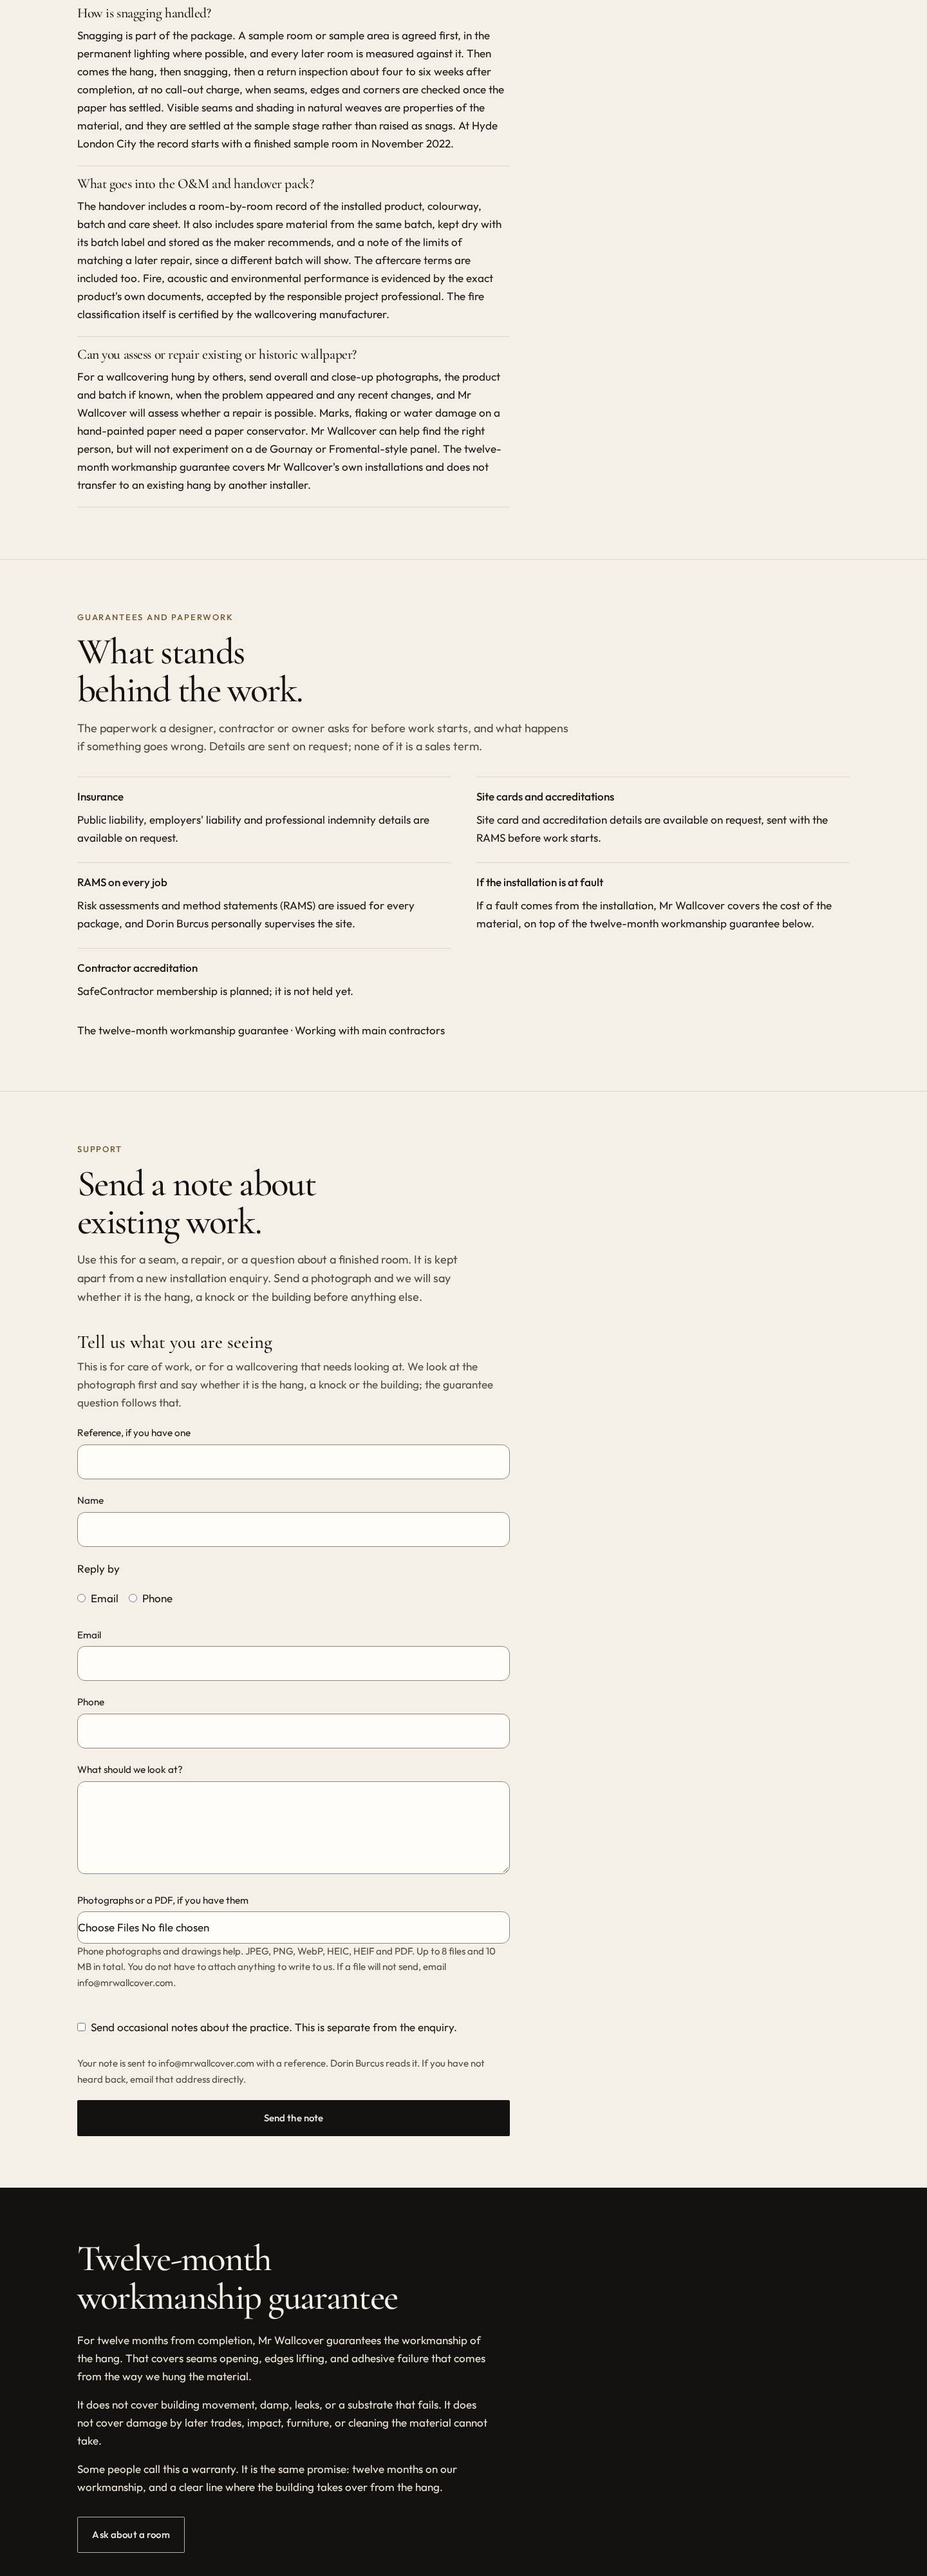
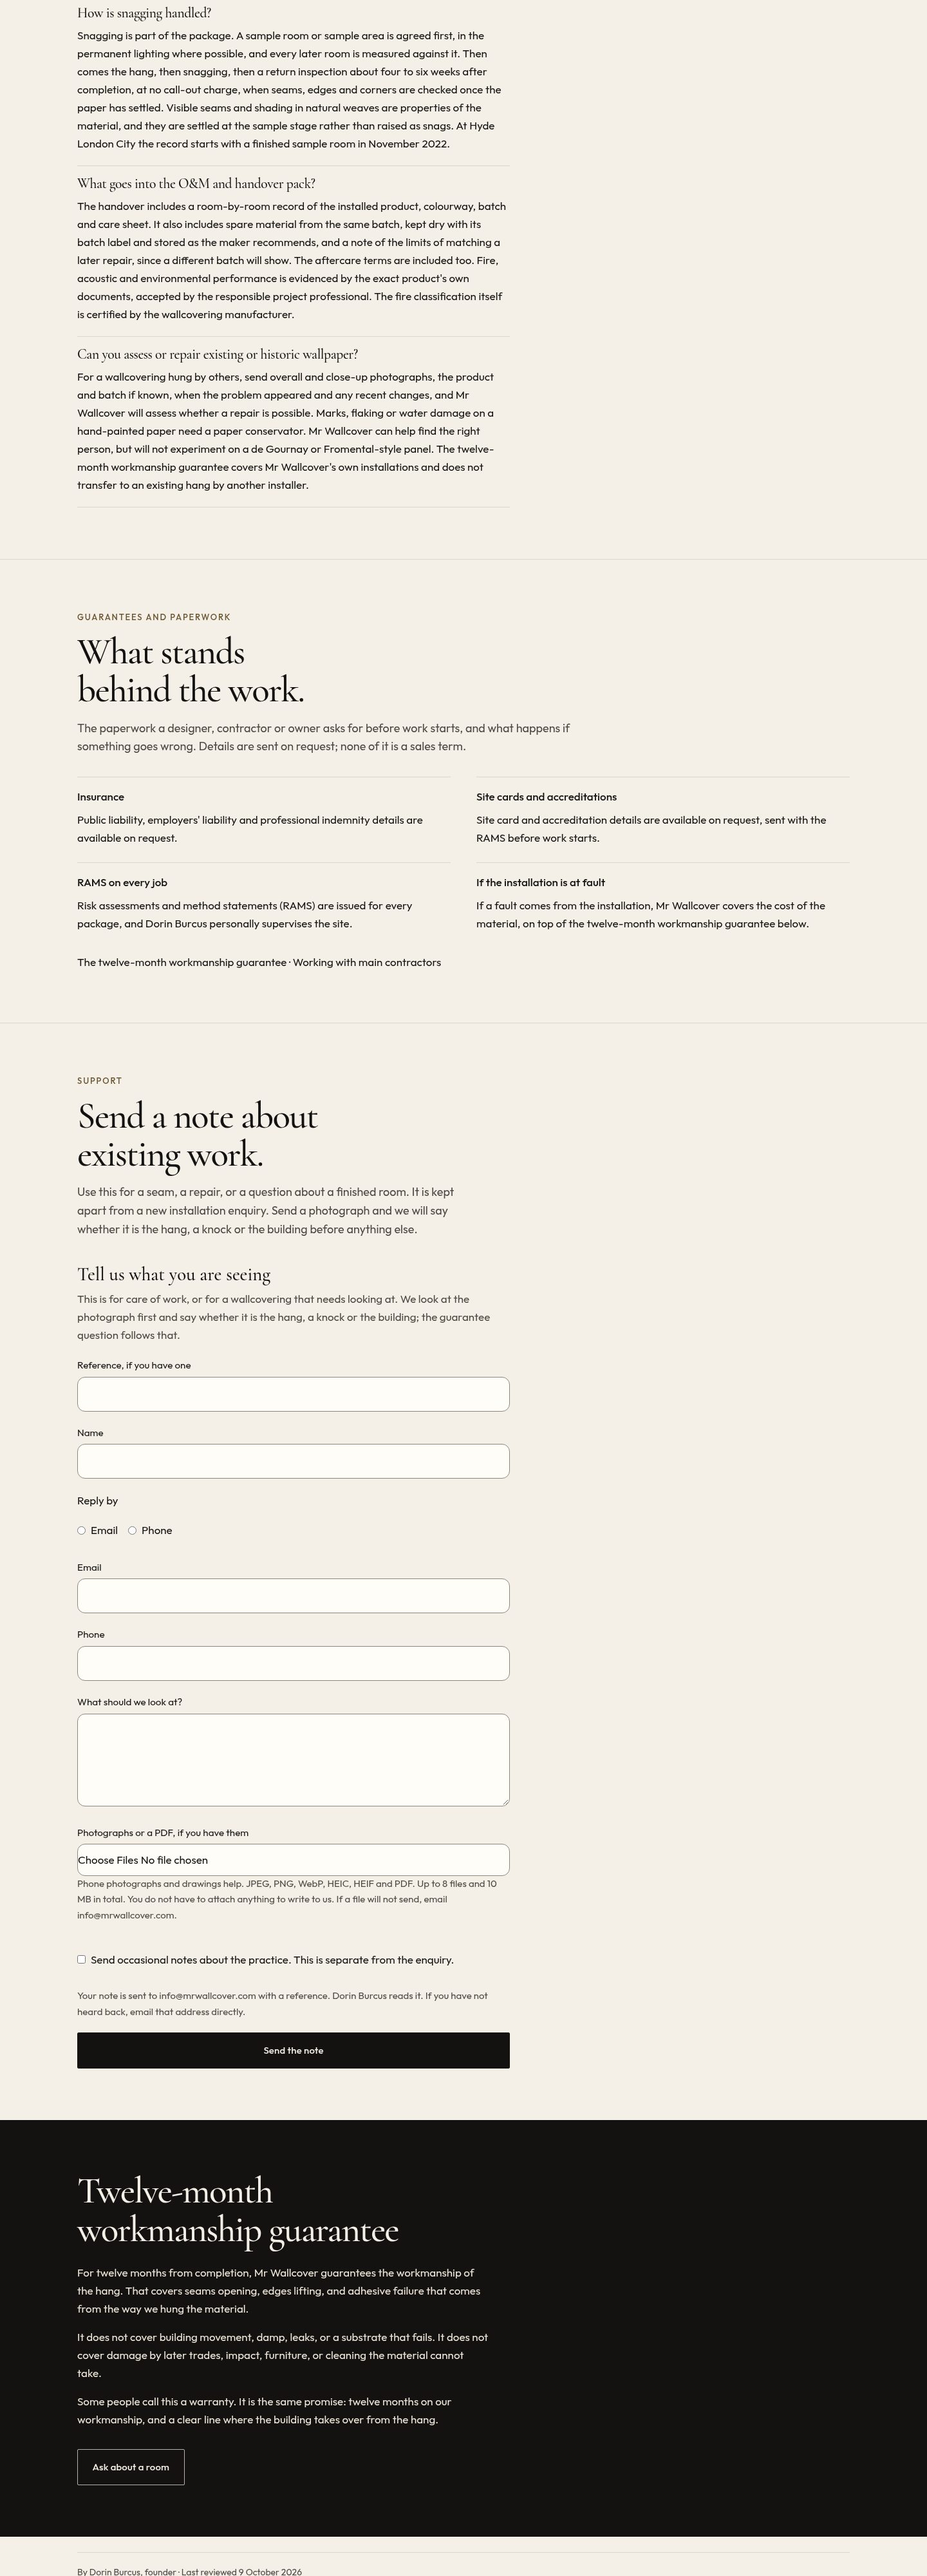
Remove every public mention of the contractor-accreditation scheme (owner decision, 11 Oct 2026 20:58); guard dist and all tracked files against it

diff --git a/tests/ai-answers.test.ts b/tests/ai-answers.test.ts
@@ -91,8 +91,11 @@ test('llms.txt lists every buyer question; /.well-known/facts.json carries them 
   for (const key of ['inTradeSince', 'awardText', 'services', 'areasServed', 'enquiryRoutes', 'wastageAllowance', 'projects']) assert.ok(key in wellKnown, `${key} kept`);
 });
 
+// The accreditation scheme Dorin keeps private (owner decision, 11 Oct 2026 20:58), matched with or without a space.
+const ACCREDITATION_SCHEME = new RegExp(['safe', 'contractor'].join('\\s*'), 'i');
+
 // Dorin's answers to QUESTIONS_FOR_DORIN.md Q1–Q14 (10 Oct 2026, 21:43).
-test('Dorin\'s Q1–Q14 answers: no [Pending] left, no insurance limits, no SafeContractor, no payment terms, no certifying of fire ratings', async () => {
+test('Dorin\'s Q1–Q14 answers: no [Pending] left, no insurance limits, no accreditation-scheme name, no payment terms, no certifying of fire ratings', async () => {
   for (const item of all) {
     for (const q of (item as Answer & { answeredBy?: string[] }).answeredBy ?? []) assert.ok(/^Q(1[0-4]|[1-9])$/.test(q), `${item.id} answeredBy ${q}`);
   }
@@ -102,10 +105,9 @@ test('Dorin\'s Q1–Q14 answers: no [Pending] left, no insurance limits, no Safe
   for (const file of files) {
     const text = await readFile(file, 'utf8');
     for (let n = 1; n <= 14; n += 1) if (text.includes(`[Pending Q${n}`)) problems.push(`${file}: [Pending Q${n}`);
-    // SafeContractor: Dorin's 10 Oct answers kept it off the site; on 11 Oct he asked for one plain line on /aftercare/
-    // (via the Website agent). Only that exact sentence may appear; any other mention, such as a membership claim, still fails.
-    const SAFECONTRACTOR_PLANNED = 'SafeContractor membership is planned; it is not held yet.';
-    if (/SafeContractor/i.test(text.split(SAFECONTRACTOR_PLANNED).join(''))) problems.push(`${file}: SafeContractor`);
+    // The contractor-accreditation scheme is never named publicly (Dorin Burcus, 11 Oct 2026 20:58: not as held, not as
+    // planned). The pattern is assembled from pieces so this public repo carries no literal of the name.
+    if (ACCREDITATION_SCHEME.test(text)) problems.push(`${file}: accreditation scheme named`);
     if (/payment terms (are|:)|our payment terms|\bdeposit of\b|\d+\s?% (deposit|retention)|payable within|net \d+ days/i.test(text)) problems.push(`${file}: payment terms`);
     for (const m of text.matchAll(/(public liability|employers'? liability|professional indemnity|insurance|insured)[^.\n]{0,120}(£\s?\d|\d+\s?(m|million)\b)/gi)) problems.push(`${file}: insurance limit "${m[0].slice(0, 80)}"`);
     if (/we certify fire|certif(y|ies) the fire (rating|classification)s? (ourselves|ourself)|Mr Wallcover certifies/i.test(text)) problems.push(`${file}: certifying fire ratings`);

diff --git a/tests/private-terms.test.ts b/tests/private-terms.test.ts
@@ -1,0 +1,33 @@
+import { test } from 'node:test';
+import assert from 'node:assert/strict';
+import { execFileSync } from 'node:child_process';
+import { readFileSync, readdirSync, statSync } from 'node:fs';
+import path from 'node:path';
+
+// Owner decision (Dorin Burcus, 11 Oct 2026 20:58): the contractor-accreditation scheme is never named in public,
+// neither as held nor as planned. It stays only in the private ops repo. This repository is public, so the guard
+// covers the built site (dist/, every text file including _astro bundles) and every tracked text file in the repo
+// (src/, public/, docs/, tests/, scripts/ ...). The pattern is assembled from pieces so this file holds no literal.
+const SCHEME = new RegExp(['safe', 'contractor'].join('[\\s_-]*'), 'i');
+const TEXT = /\.(html?|xml|txt|md|mdx|json|js|mjs|cjs|ts|astro|css|svg|csv|webmanifest|ya?ml)$/i;
+
+function walk(dir: string, out: string[] = []): string[] {
+  for (const name of readdirSync(dir)) {
+    const p = path.join(dir, name);
+    if (statSync(p).isDirectory()) walk(p, out);
+    else if (TEXT.test(name)) out.push(p);
+  }
+  return out;
+}
+
+test('the accreditation scheme is not named anywhere in the built site', () => {
+  const hits = walk('dist').filter((f) => SCHEME.test(readFileSync(f, 'utf8')));
+  assert.deepEqual(hits, []);
+});
+
+test('the accreditation scheme is not named in any tracked source, content, doc or test file', () => {
+  const tracked = execFileSync('git', ['ls-files', '-z'], { encoding: 'utf8' }).split('\0').filter((f) => f && TEXT.test(f));
+  assert.ok(tracked.length > 100, 'git ls-files listed the repository');
+  const hits = tracked.filter((f) => { try { return SCHEME.test(readFileSync(f, 'utf8')); } catch { return false; } });
+  assert.deepEqual(hits, []);
+});

diff --git a/docs/sources.md b/docs/sources.md
@@ -47,7 +47,7 @@ Source for every fact below: **the @mrwallcover Instagram** (https://www.instagr
 ## Second review: designers strip, aftercare paperwork, quantities allowance, details (11 Oct 2026)
 
 - **Designers we work with** (src/data/designers.json, on /about/ and /professionals/designers/). Jaillon Studio: the published case studies /projects/tea-house-jaillon-studio/ and /projects/private-residence-little-venice/. Posner Interiors: tagged @posnerinteriors on our post [B73YYaSlpPv](https://www.instagram.com/p/B73YYaSlpPv/), 28 Jan 2020, a private home near Sloane Square (Cole & Son, Little Greene; ig-pack plan). Diane Hill: our post [B4Puc1-FUT9](https://www.instagram.com/p/B4Puc1-FUT9/), 30 Oct 2019: "This wall art was beautifully hand painted after the installation of the silk on the walls … Artist @dianehilldesign Silk @PhillipJeffriesltd" (ig-pack MANIFEST; the caption itself is not reused). The three names were cleared for /about/ by Dorin (About brief, 11 Oct 2026). Calico Wallpaper (the one partnership), House of Hackney and Lee Broom: their published case studies.
-- **Aftercare, "Guarantees and paperwork"** (src/content/aftercare.json, assurance). Insurance, site cards and accreditations, RAMS with Dorin supervising, and "If a fault comes from the installation, Mr Wallcover covers the cost of the material": the approved answers in src/data/buyer-answers.json. "SafeContractor membership is planned; it is not held yet": Dorin Burcus via the Website agent, 11 Oct 2026. No limits and no payment terms are published.
+- **Aftercare, "Guarantees and paperwork"** (src/content/aftercare.json, assurance). Insurance, site cards and accreditations, RAMS with Dorin supervising, and "If a fault comes from the installation, Mr Wallcover covers the cost of the material": the approved answers in src/data/buyer-answers.json. No limits and no payment terms are published.
 - **Quantities allowance** (/advice/quantities/): "typically 15–30%, depending on the pattern repeat and the layout, with staircases at the high end (around 30%) because of the angles. Extra rolls for pattern matching are confirmed at survey", the approved wording in src/content/guides/installation-cost.md and buyer-answers.json.
 - **Details** (/details/): ten of our own photographs, each already published on its case study or as maker evidence (records in src/content/alts.json: "own photograph" / "own photo").
 
